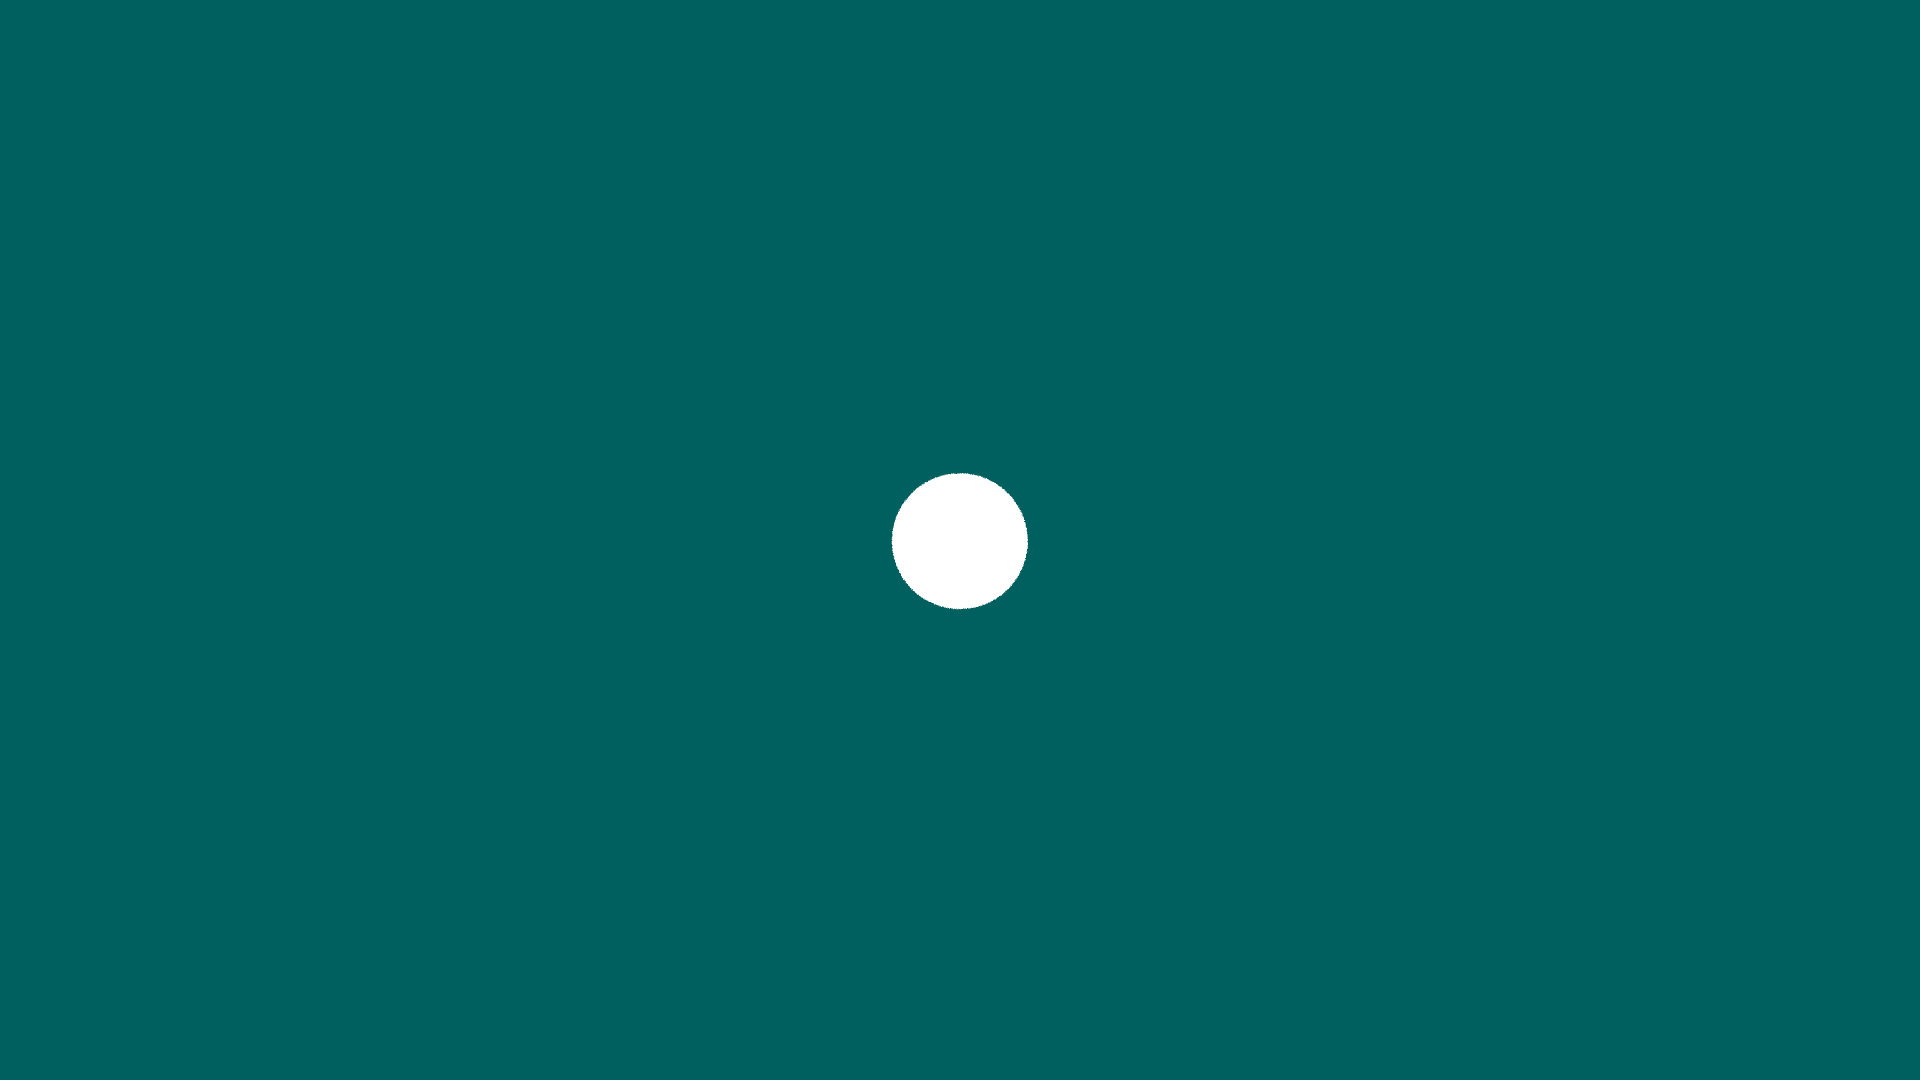
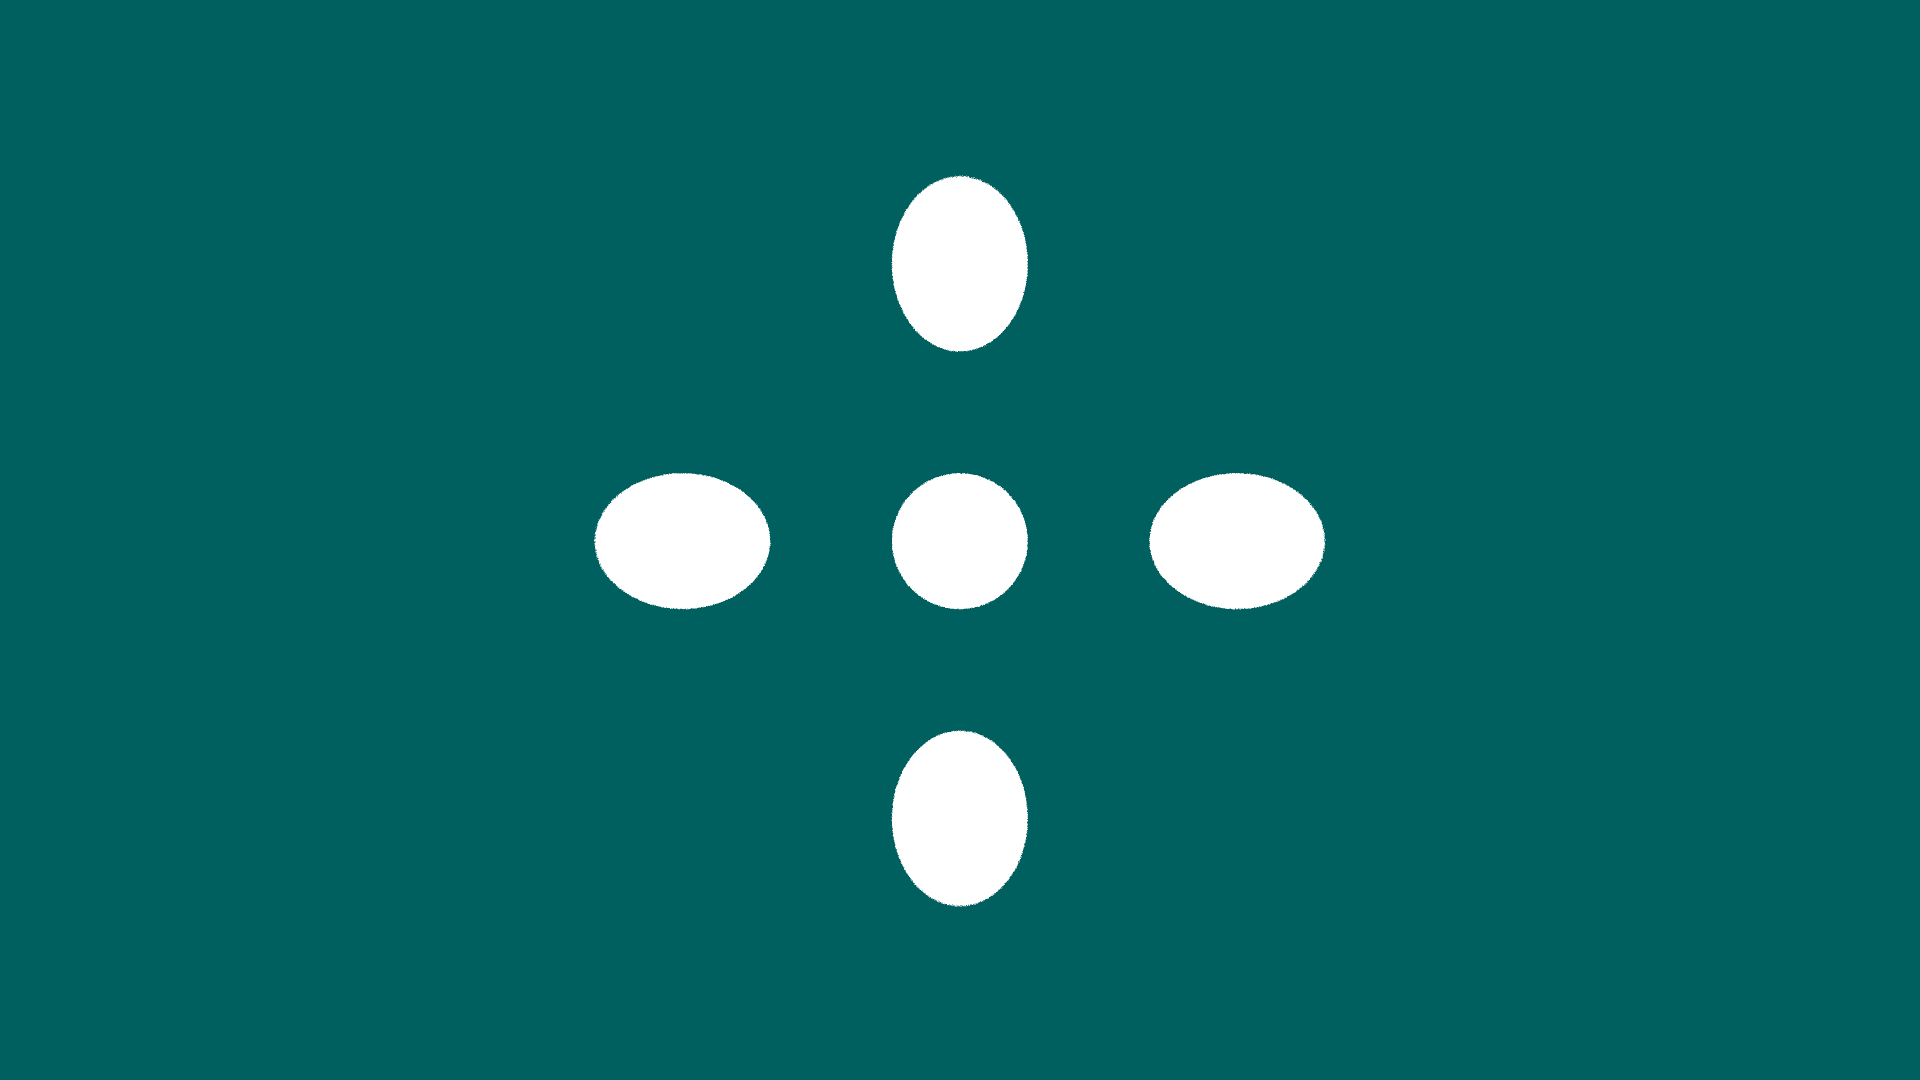
Multiple spheres!

diff --git a/Archer/scene.py b/Archer/scene.py
@@ -5,15 +5,15 @@ from camera import Camera
 
 @ti.dataclass
 class Scene:
-    sphere: Sphere
     sky: Color
     rpp: ti.u8
 
-    def render(self, camera, ret):
+    def render(self, camera, objects, ret):
         sky_multiplier = ti.Vector([self.sky.r, self.sky.g, self.sky.b])
+        n_objects = objects.shape[0]
         
         @ti.kernel
-        def _render(camera: Camera, sphere: Sphere, rpp: ti.u8):
+        def _render(camera: Camera, rpp: ti.u8):
             for x, y in ti.ndrange(int(camera.resolution[0]), int(camera.resolution[1])):
                 _sumr = .0
                 _sumg = .0
@@ -21,9 +21,12 @@ class Scene:
                 
                 for pidx in range(rpp):
                     ray = camera.get_ray(vec2(x, y))
-                    intersect = sphere.intersect(ray)
-                    hit = intersect > 0
-                    color = ti.Vector([255, 255, 255]) * hit + sky_multiplier * (1 - hit)
+                    intersect = False
+                    for obj in range(n_objects):
+                        if bool(objects[obj].intersect(ray)):
+                            intersect = True
+                            break
+                    color = ti.Vector([255, 255, 255]) * intersect + sky_multiplier * (1 - intersect)
                     
                     _sumr += color[0]
                     _sumg += color[1]
@@ -33,5 +36,5 @@ class Scene:
                 ret[x, y, 1] = ti.u8(_sumg / rpp)
                 ret[x, y, 2] = ti.u8(_sumb / rpp)
 
-        _render(camera, self.sphere, self.rpp)
+        _render(camera, self.rpp)
         return ret

diff --git a/Archer/main.py b/Archer/main.py
@@ -10,8 +10,19 @@ from models.sphere import Sphere
 ti.init(ti.gpu, default_fp=ti.f32, default_ip=ti.i32)
 RESOLUTION = (1920, 1080)
 
+spheres = Sphere.field(shape=5)
+spheres[0].center = vec3(0, 0, -5)
+spheres[0].radius = 1
+spheres[1].center = vec3(0, -4, -5)
+spheres[1].radius = 1
+spheres[2].center = vec3(4, 0, -5)
+spheres[2].radius = 1
+spheres[3].center = vec3(-4, 0, -5)
+spheres[3].radius = 1
+spheres[4].center = vec3(0, 4, -5)
+spheres[4].radius = 1
+
 scene = Scene(
-    Sphere(vec3(0, 0, -5), 1),
     Color(0, 95, 95),
     4
 )
@@ -19,7 +30,7 @@ camera = Camera(vec2(RESOLUTION[0], RESOLUTION[1]), vec3(0, 0, 0), vec3(0, 0, 0)
 ret = ti.field(dtype=ti.u8, shape=(camera.resolution[0], camera.resolution[1], 3))
 
 t = perf_counter()
-img = scene.render(camera, ret)
+img = scene.render(camera, spheres, ret)
 print(f"Took {perf_counter() - t} seconds. That's {1 / (perf_counter() - t)} FPS!")
 print(f"Computed {img.shape[0] * img.shape[1] * scene.rpp} rays.")
 
